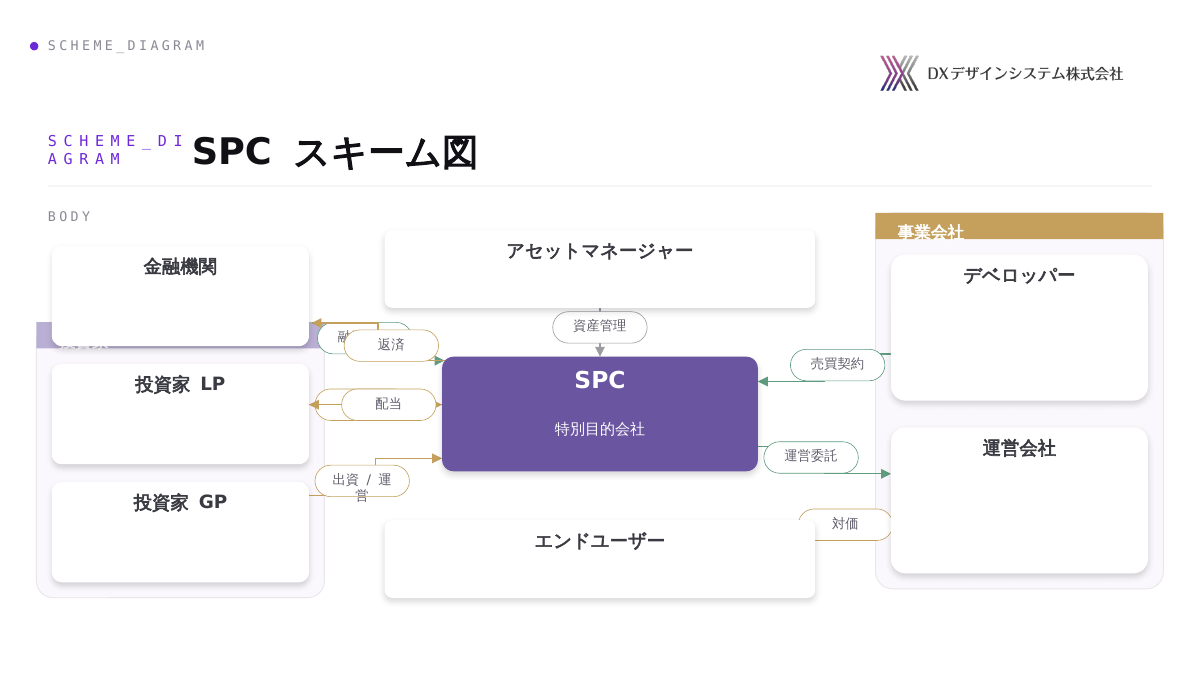
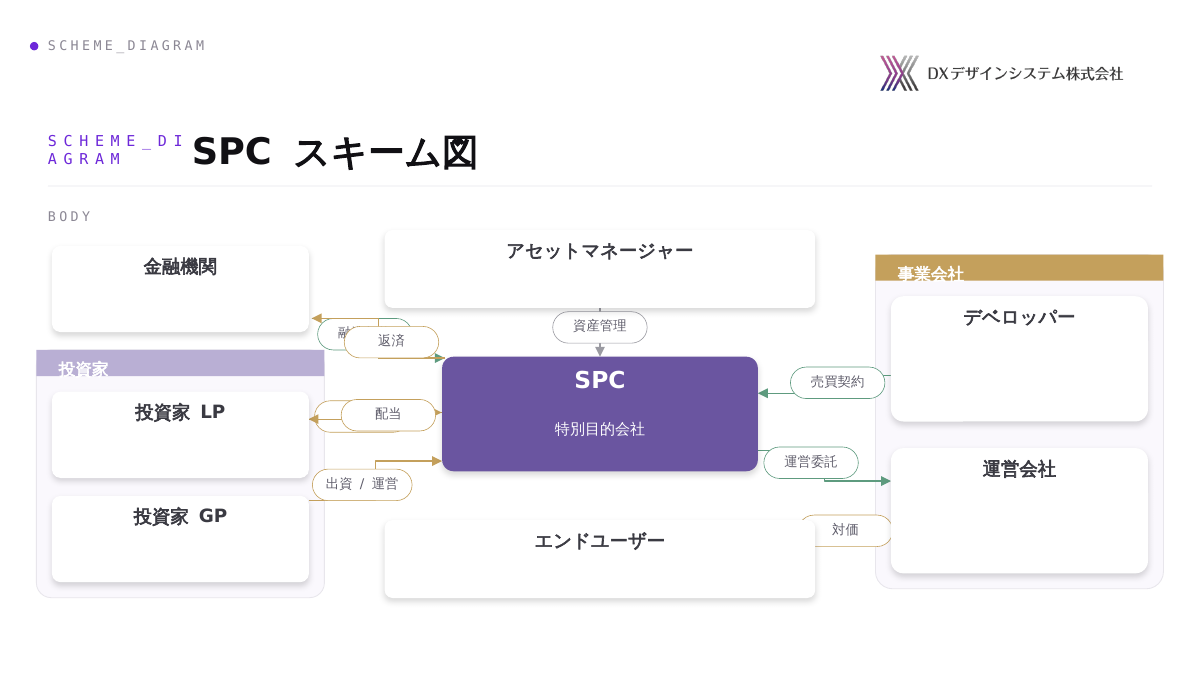
fix(scheme_diagram): group title placement + flow label sizing
Two issues from the first cut:

1. Group title bar overlapped non-member actors above it.
   When a column held a non-grouped actor (金融機関) above
   grouped actors (投資家 LP/GP), the group's title band was
   placed at min(member_y) - title_band, which landed inside
   the non-member's bbox.

   Fix: column layout now (a) reorders actors so ungrouped
   come first then grouped clusters, and (b) reserves a
   title-band gap before each group's first member so the
   group's title bar slots into a clean strip between the
   non-member above and the first member below.

2. Flow label "出資 / 運営" overflowed the fixed 720k pill.

   Fix: pill width now scales with label length (~80k EMU per
   character + 200k padding, floor 720k), and the inner
   text_box gets auto_fit=True so anything still too long
   shrinks instead of clipping.

diff --git a/app/render/figure_renderers/scheme_diagram.py b/app/render/figure_renderers/scheme_diagram.py
@@ -285,23 +285,66 @@ class SchemeDiagramRenderer(FigureRenderer):
 
         positions: dict[str, tuple[int, int, int, int]] = {}
 
+        # Lookup: actor_id → group index, for column reordering and
+        # title-band reservation. -1 means ungrouped.
+        member_to_group: dict[str, int] = {}
+        for gi, g in enumerate(groups):
+            for m in g.get("members", []):
+                # Multiple groups claiming the same actor would be a
+                # validation bug; the last one wins here without
+                # special-casing.
+                member_to_group[m] = gi
+
+        # Title-band height reserved above each group's first member so
+        # the group's labelled top bar doesn't crash into a non-member
+        # actor positioned right above it.
+        col_title_band = max(_i(canvas_h * 0.07), 200000)
+        col_title_pad = max(_i(canvas_w * 0.014), 24000)
+        title_room = col_title_band + col_title_pad
+
         # ---- left / right columns ------------------------------------
         def _layout_column(
             actor_list: list[dict[str, Any]], col_x: int, col_w: int
         ) -> None:
             if not actor_list:
                 return
-            n = len(actor_list)
+            # Reorder so ungrouped actors come first, then group
+            # members clustered together (by group index, preserving
+            # original order within each group via stable sort). The
+            # group's title bar then has a clean strip of column to
+            # render in without overlapping a non-member.
+            ordered = sorted(
+                actor_list,
+                key=lambda a: member_to_group.get(a["id"], -1),
+            )
+            n = len(ordered)
             col_y = container.y
             col_h = canvas_h
-            gap = max(_i(col_h / (n * 7)), 30000)
-            avail = col_h - gap * (n + 1)
-            ah = avail // n
-            for i, a in enumerate(actor_list):
-                ax = col_x + 30000
-                ay = col_y + gap + i * (ah + gap)
-                aw = col_w - 60000
-                positions[a["id"]] = (ax, ay, aw, ah)
+            base_gap = max(_i(col_h / (n * 7)), 30000)
+
+            # How many groups have at least one member in this column?
+            # Each one needs one extra title-room slot inserted before
+            # its first member.
+            seen_groups: set[int] = set()
+            extras = 0
+            for a in ordered:
+                gid = member_to_group.get(a["id"], -1)
+                if gid >= 0 and gid not in seen_groups:
+                    seen_groups.add(gid)
+                    extras += 1
+
+            avail = col_h - base_gap * (n + 1) - title_room * extras
+            ah = max(avail // n, 240000)
+
+            cur_y = col_y + base_gap
+            placed_groups: set[int] = set()
+            for a in ordered:
+                gid = member_to_group.get(a["id"], -1)
+                if gid >= 0 and gid not in placed_groups:
+                    placed_groups.add(gid)
+                    cur_y += title_room
+                positions[a["id"]] = (col_x + 30000, cur_y, col_w - 60000, ah)
+                cur_y += ah + base_gap
 
         _layout_column(by_region["left"], container.x, left_w)
         _layout_column(
@@ -480,7 +523,11 @@ class SchemeDiagramRenderer(FigureRenderer):
                 # midpoint when flows fan out from the center.
                 lx = start[0] + (end[0] - start[0]) * 40 // 100
                 ly = start[1] + (end[1] - start[1]) * 40 // 100
-                lbl_w = 720000
+                # Pill width grows with label length so JP labels like
+                # "出資 / 運営" don't overflow the default. ~80k EMU
+                # per character at 8pt JP plus padding.
+                lbl_text = str(label)
+                lbl_w = max(720000, 80000 * len(lbl_text) + 200000)
                 lbl_h = 240000
                 shapes.append(
                     round_rect_shape(
@@ -505,10 +552,11 @@ class SchemeDiagramRenderer(FigureRenderer):
                         ly - lbl_h // 2,
                         lbl_w,
                         lbl_h,
-                        str(label),
+                        lbl_text,
                         size_pt=8,
                         color=p.dark,
                         font=ctx.font,
+                        auto_fit=True,
                         align="ctr",
                     )
                 )